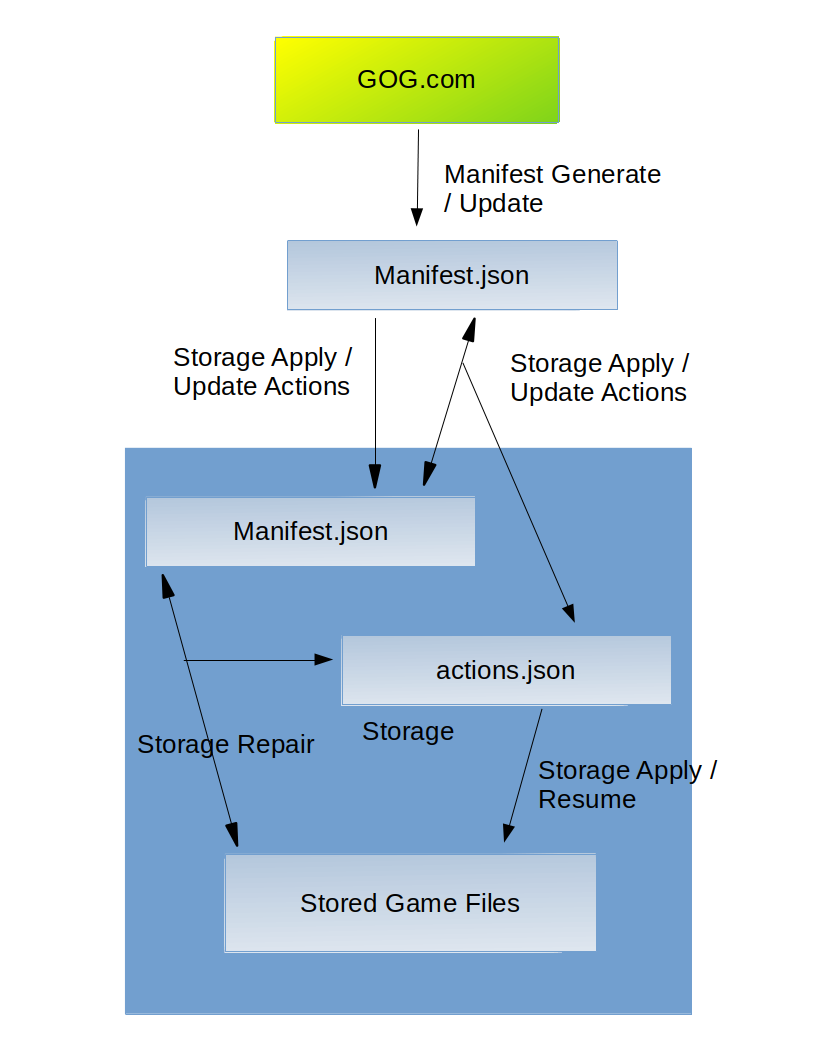
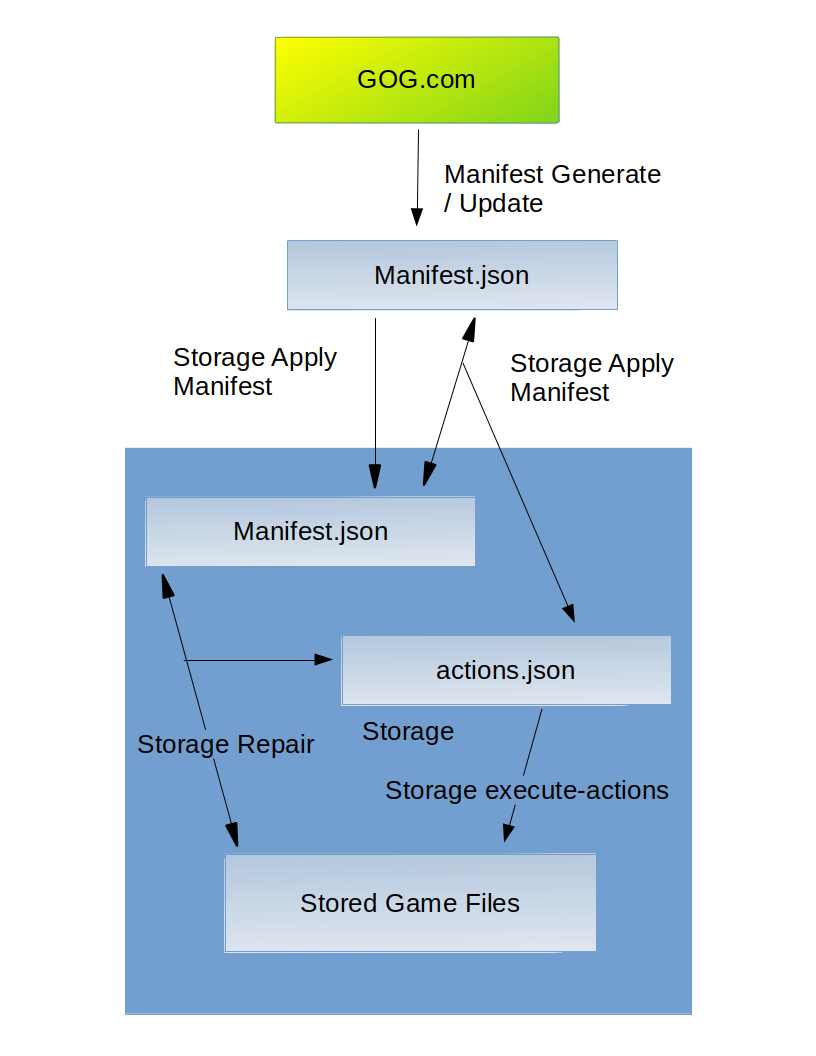
Updated documentation

diff --git a/README.md b/README.md
@@ -64,6 +64,13 @@ If you prefer, you can build the binary locally:
 - Get golang: https://golang.org/dl/
 - Run: ```go build```
 
+# Architecture
+
+The documentation below consists of quick howtos.
+
+For a deeper understanding of what the commands do, read the following doc: https://github.com/Magnitus-/gogcli/tree/main/architecture-documentation
+
+
 # Common Use Case Examples
 
 Here, I assume that the gogcli binary is in the **PATH** so that I just type **gogcli** without having to use a relative path (ex: **./gogcli**).
@@ -103,19 +110,22 @@ So now, you are ready to upload your games in your storage.
 If you want to store your games in your filesystem, say in the **/home/eric/games** directory, you would type:
 
 ```
-gogcli storage apply --path=/home/eric/games --storage=fs
+gogcli storage apply manifest --path=/home/eric/games --storage=fs
+gogcli storage execute-actions --path=/home/eric/games --storage=fs
 ```
 
 If instead, you have an s3 store whose configuration information is in the file s3.json (see instructions above for how to configure s3 stores), you would type:
 
 ```
-gogcli storage apply --path=s3.json --storage=s3
+gogcli storage apply manifest --path=s3.json --storage=s3
+gogcli storage execute-actions --path=s3.json --storage=s3
 ```
 
 If you have 1000 games to upload and would like to only upload 50 games for now and do the rest later, you would type:
 
 ```
-gogcli storage apply --path=s3.json --storage=s3 --maximum=50
+gogcli storage apply manifest --path=s3.json --storage=s3
+gogcli storage execute-actions --path=s3.json --storage=s3 --maximum=50
 ```
 
 And if of those 1000 games, you to download your smaller indie games first and **Faster Than Light** first of all (because it is such a great game), you would first type the following to get FTL's game id:
@@ -127,7 +137,8 @@ gogcli manifest search --title=FTL
 And then type:
 
 ```
-gogcli storage apply --path=s3.json --storage=s3 --maximum=50 --sort-criterion=size --preferred-ids=1207659102
+gogcli storage apply manifest --path=s3.json --storage=s3
+gogcli storage execute-actions --path=s3.json --storage=s3 --maximum=50 --sort-criterion=size --preferred-ids=1207659102
 ```
 
 If you'd like to look at what's left to download, you can download all the actions that have yet to run by typing:
@@ -149,7 +160,7 @@ gogcli manifest search --title=Blackwell
 Then, you will type the following to download the next 50 games, with the **Blackwell** games first
 
 ```
-gogcli storage resume --path=s3.json --storage=s3 --maximum=50 --sort-criterion=size --preferred-ids=1207662883 --preferred-ids=1207662893 --preferred-ids=1207662903 --preferred-ids=1207662913 --preferred-ids=1207664393
+gogcli storage execute-actions--path=s3.json --storage=s3 --maximum=50 --sort-criterion=size --preferred-ids=1207662883 --preferred-ids=1207662893 --preferred-ids=1207662903 --preferred-ids=1207662913 --preferred-ids=1207664393
 ```
 
 And so forth...
@@ -233,13 +244,15 @@ The actions will be in the **actions.json** file.
 You can apply your modifed manifest by typing:
 
 ```
-gogcli storage apply --path=/home/eric/games --storage=fs
+gogcli storage apply manifest --path=/home/eric/games --storage=fs
+gogcli storage execute-actions --path=/home/eric/games --storage=fs
 ```
 
 Again, if you wish for extras without checksum to count as the same file if the file name and file size match, you type this instead:
 
 ```
-gogcli storage apply --empty-checksum --path=/home/eric/games --storage=fs
+gogcli storage apply manifest --empty-checksum --path=/home/eric/games --storage=fs
+gogcli storage execute-actions --path=/home/eric/games --storage=fs
 ```
 
 Afterwards, if you want to copy the modifications from your filesystem to your s3 store, you can type:
@@ -273,7 +286,8 @@ Anyways, the actions will be listed in the **actions.json** file.
 If you are satisfied with the actions that will run, you can now apply your manifest by typing:
 
 ```
-gogcli storage apply --empty-checksum --path=/home/eric/games --storage=fs
+gogcli storage apply manifest --empty-checksum --path=/home/eric/games --storage=fs
+gogcli storage execute-actions --path=/home/eric/games --storage=fs
 ```
 
 Afterwards, you can copy the changes from your filesystem to your s3 store by typing:
@@ -288,25 +302,25 @@ Ok, so you started storing your games from your manifest using the **gogcli stor
 
 You took a break and in the interim, gog updated some games and now you're stuck with a storage that has some half-uploaded manifest that is no longer valid.
 
-What do you do?
+What do you do? The same thing you would if there were no pending actions. To recap below...
 
 First of all, you produce an updated **manifest.json** manifest using the **gogcli storage download manifest** + **gogcli update generate** + **gogcli manifest update** commands (option 1)... or you just use a **gogcli manifest generate** command (option 2).
 
-After that, you just run the following:
+After that, you run:
 
 ```
-gogcli storage update-actions --path=s3.json --storage=s3
+gogcli storage apply manifest --path=s3.json --storage=s3
+gogcli storage execute-actions --path=s3.json --storage=s3
 ```
 
 Or if you really don't want to redownload extras that don't have a checksum and trust that the file was not updated if the file name and size matches:
 
 ```
-gogcli storage update-actions --empty-checksum --path=s3.json --storage=s3 
+gogcli storage apply manifest --empty-checksum --path=s3.json --storage=s3
+gogcli storage execute-actions --path=s3.json --storage=s3 
 ```
 
 What just happened? Your storage's manifest got updated and the remaining actions got adjusted to include additional actions from the change in your manifest.
-
-From there, you can just run **gogcli storage resume** normally.
 
 ## Repair Broken Storage
 
@@ -322,10 +336,10 @@ gogcli storage repair --path=s3.json --storage=s3
 
 After running the command, you'll possibly have a bunch of pending actions in your storage if adjustments were needed.
 
-You will run the pending actions in your storage just as you would resume an unfinished **gogli storage apply** by running:
+You will execute those actions just like you would with an apply by running:
 
 ```
-gogcli storage resume --path=s3.json --storage=s3 
+gogcli storage execute-actions --path=s3.json --storage=s3 
 ```
 
 ## Dealing With Repeated Download Mismatch
@@ -354,7 +368,7 @@ gogcli manifest update --id=1207659025
 And finally, update the actions list in your storage with your updated manifest:
 
 ```
-gogcli storage update-actions --empty-checksum --path=s3.json --storage=s3
+gogcli storage apply manifest --empty-checksum --path=s3.json --storage=s3
 ```
 
 ## Migration From gogcli 0.9.x

diff --git a/architecture-documentation/README.md b/architecture-documentation/README.md
@@ -26,11 +26,9 @@ The diagram below shows how the various commands affect the above components:
 
 The **gogcli manifest generate** will generate a fresh **manifest** from **GOG.com**. **gogcli manifest update** will update specific games in the **manifest** (either specified by game **id** or via an **updates** file generated based on what **GOG.com** flaged as new or updated in your collection) based on **GOG.com**.
 
-The **gogcli storage apply** command will move a **manifest** file to your **storage**, generate an **actions** file in your storage based on the different between the **manifest** you just applied and the previous manifest. It will then proceed to run the **actions** specified on the **actions** file on your **storage**.
+The **gogcli storage apply manifest** command will move a **manifest** file to your **storage**, generate an **actions** file in your storage based on the different between the **manifest** you just applied and the previous manifest. In event that there is already a pre-existing **actions** file in the storage, **gogcli storage apply manifest** will reconcile it with the changes from the updated manifest.
 
-In the event that a **gogcli storage apply** command does not run to completion, **gogcli storage resume** will run any lingering **actions** in your storage.
-
-If there is a pre-existing **actions** file in your storage and you wish to update the **manifest** in your storage and adjust the **actions** accordingly, **gogcli storage update-actions** will allow you to do that (**gogcli storage apply** only works if there are no lingering actions in your storage).
+The **gogcli storage execute-actions** command will run the actions in the **actions** file, downloading new game files in the storage, deleted deprecated game files and update the **actions** file accordingly as actions get run.
 
 And should the **game files** in your **storage** become out of sync with your **manifest** by accident (file corruption, file deletion, etc), **gogcli storage repair** will generate a new **actions** file in your storage, based on the observed different between the **manifest** and the **game files** in your **storage** (the **manifest** is considered authoritative).
 
